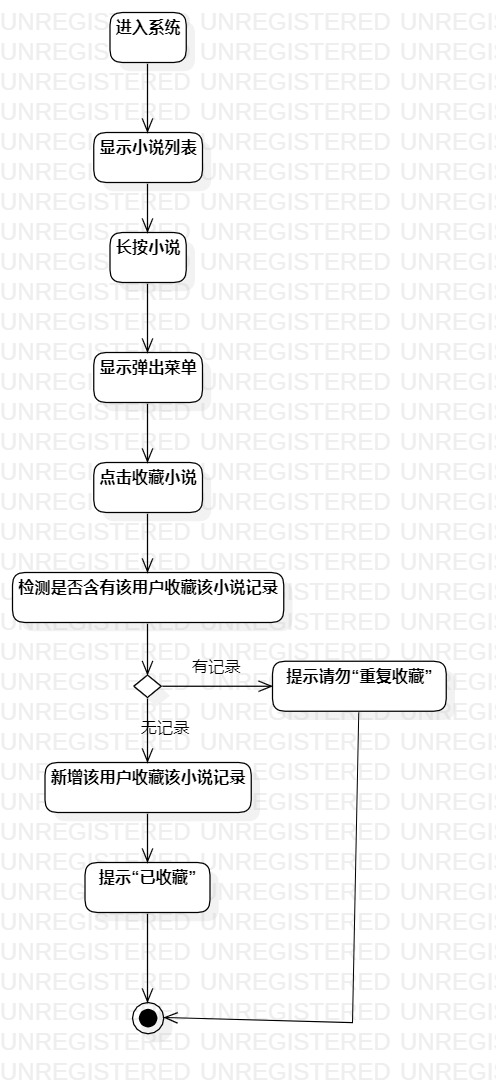
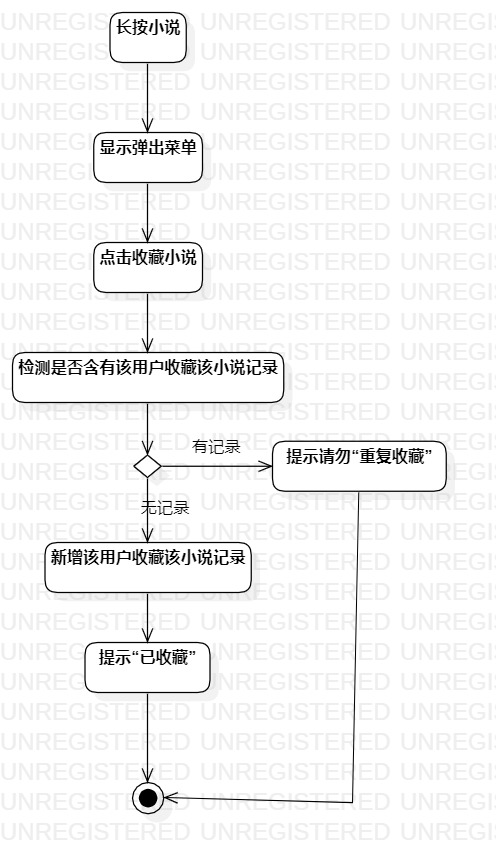
修改实验二，完善实验三活动图

diff --git a/students/1714080902622/lab2.md b/students/1714080902622/lab2.md
@@ -35,13 +35,16 @@
 用例编号  | UC01 | 备注  
 -|:-|-  
 用例名称  | 阅览小说  |
-前置条件  | 用户已登录  | *可选*   
+前置条件  | 用户已登录，用户进入系统  | *可选*   
 后置条件  |      | *可选*   
-基本流程  | 1. 用户进入系统；  |*用例执行成功的步骤*    
-~| 2. 系统显示小说列表；  |   
-~| 3. 用户点击小说；  |   
-~| 4. 系统检索用户上次阅读的页面，显示小说内容；  |    
-扩展流程  | 4.1用户已阅读到最后**提示“您已阅读完本小说”**；  |*用例执行失败*    
+基本流程  | 1. 用户点击搜索栏 ；  |*用例执行成功的步骤*    
+~| 2. 系统显示搜索页面；  |   
+~| 3. 用户输入小说名，点击搜索；  |   
+~| 4. 系统模糊检索小说，显示小说列表；  |   
+~| 5. 用户点击小说；  |   
+~| 6. 系统检索用户上次阅读到的页面，显示小说内容；  |    
+扩展流程  | 4.1 系统查找不到小说 **显示“找不到小说”**；  |*用例执行失败*    
+~| 6.1用户已阅读到最后**提示“您已阅读完本小说”**；  |*用例执行失败*    
 
 
 ## 表2：收藏小说用例规约  
@@ -49,12 +52,10 @@
 用例编号  | UC02 | 备注  
 -|:-|-  
 用例名称  | 收藏小说  |   
-前置条件  | 用户已登录  | *可选*   
+前置条件  | 用户已登录，系统显示小说列表  | *可选*   
 后置条件  |     | *可选*   
-基本流程  | 1. 用户进入系统 ；  |*用例执行成功的步骤*    
-~| 2.系统显示小说列表 ；  |   
-~| 3.用户长按小说 ；  |   
-~| 4.系统显示弹出菜单 ；  |   
-~| 5.用户点击收藏小说 ；  |  
-~| 6. 系统检测是否含有用户收藏小说的记录，新增一条该用户的收藏记录(包含小说信息与用户信息)，**提示“已收藏”**；  |
-扩展流程  | 6.1 系统检测到含有用户收藏小说的记录**提示“请勿重复收藏”**；  |*用例执行失败*    
+基本流程  | 1. 用户长按小说 ；  |*用例执行成功的步骤*     
+~| 2.系统显示弹出菜单 ；  |   
+~| 3.用户点击收藏小说 ；  |  
+~| 4. 系统检测是否含有用户收藏小说的记录，新增一条该用户的收藏记录(包含小说信息与用户信息)，**提示“已收藏”**；  |
+扩展流程  | 4.1 系统检测到含有用户收藏小说的记录**提示“请勿重复收藏”**；  |*用例执行失败*    
